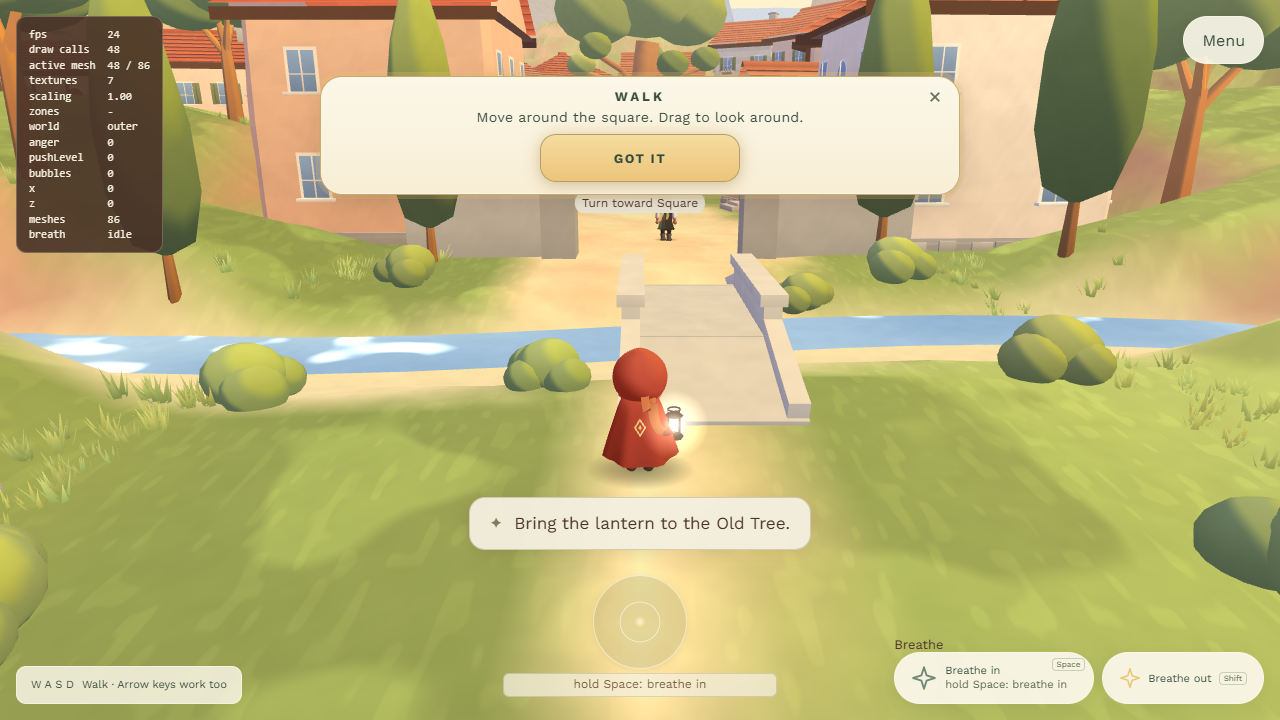
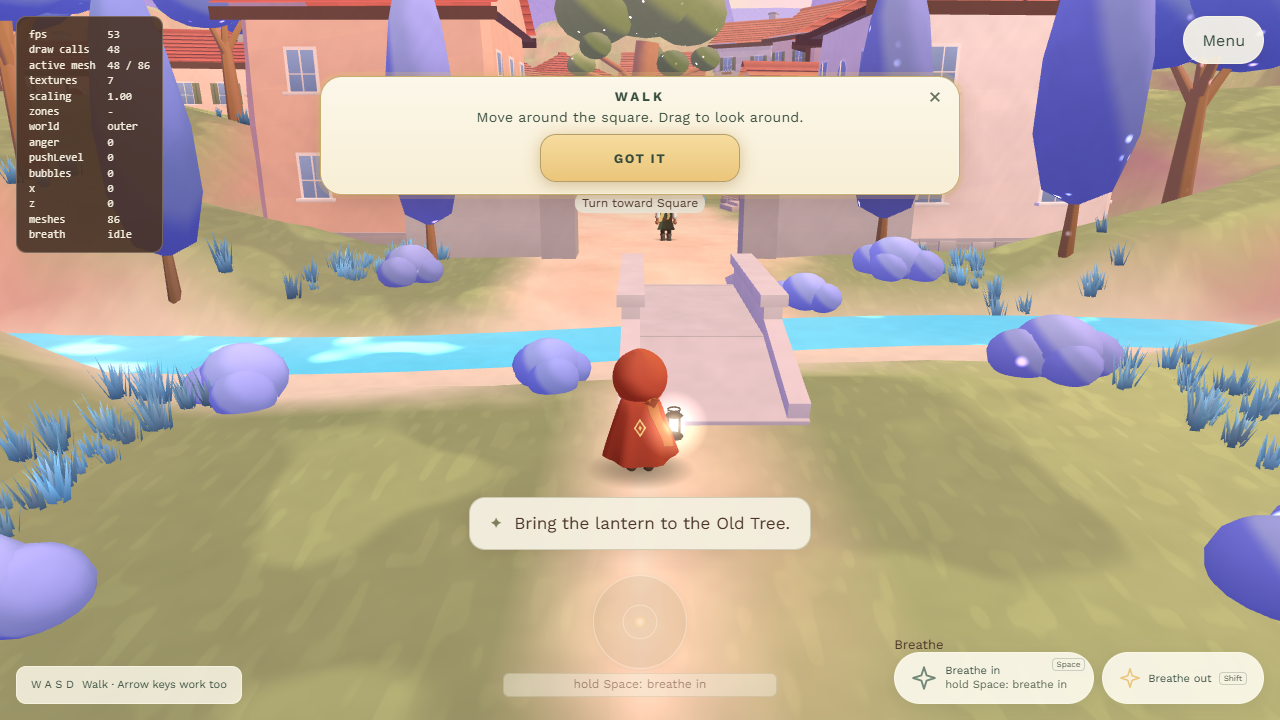
´claude screenshots

diff --git a/src/inner/ValleyProps.ts b/src/inner/ValleyProps.ts
@@ -78,6 +78,7 @@ export class ValleyProps {
   readonly meshes: Mesh[] = [];
   private readonly rnd = new Random('light-within-valley-2');
   private readonly trees: { x: number; z: number }[] = [];
+  private readonly rockSpots: { x: number; z: number; r: number }[] = [];
 
   constructor(
     scene: Scene,
@@ -89,7 +90,7 @@ export class ValleyProps {
       c.grassTufts = Math.round(c.grassTufts * TUNING.performance.mobileGrassShare);
       c.flowers = Math.round(c.flowers * TUNING.performance.mobileFlowerShare);
     }
-    this.add(roundTree(scene), this.placeRoundTrees(c.roundTrees), materials.plants);
+    this.add(roundTree(scene, true), this.placeRoundTrees(c.roundTrees), materials.plants);
     this.add(cypress(scene), this.placeCypresses(c.cypresses), materials.plants);
     this.add(bush(scene), this.placeBushes(c.bushes), materials.plants);
     this.add(rock(scene, 7), this.placeRocks(c.rocks), materials.solid);
@@ -245,6 +246,7 @@ export class ValleyProps {
         tiltZ: this.rnd.jitter(0.12),
         tint: this.tint(0.06, 0.05),
       });
+      this.rockSpots.push({ x, z, r: scale });
       if (scale > 0.55) this.colliders.push({ x, z, radius: scale * 0.8 });
       this.shadows.push({ x, z, radius: scale * 1.3, strength: 0.28 });
     }
@@ -258,17 +260,19 @@ export class ValleyProps {
       const p = this.find((x, z) => {
         // Clumps first (cheap): dense in some places, bare in others.
         if (noise2(x * 0.18 + 7, z * 0.18) < 0.32 + this.rnd.next() * 0.3) return false;
-        if (t.rimDistance(x, z) > 1.05 || t.pathDistance(x, z) < LAYOUT.pathWidth * 0.6) return false;
+        if (t.rimDistance(x, z) > 1.05 || t.pathDistance(x, z) < LAYOUT.pathWidth * 1.15) return false;
         if (t.riverDistance(x, z) < LAYOUT.river.halfWidth + 0.6 || t.isChasm(x, z)) return false;
         return t.slope(x, z) < 0.6;
       }, 20);
       if (!p) continue;
       const [x, z] = p;
+      const edge = Math.min(1, (t.pathDistance(x, z) - LAYOUT.pathWidth * 1.15) / 1.5);
+      if (edge < 1 && this.rnd.next() > 0.35 + edge * 0.65) continue;
       out.push({
         x,
         y: t.height(x, z) - 0.03,
         z,
-        scale: this.rnd.range(0.7, 1.3),
+        scale: this.rnd.range(0.7, 1.3) * (0.7 + 0.3 * edge),
         rotY: this.rnd.range(0, 6.28),
         tint: this.tint(0.1, 0.05),
       });
@@ -303,7 +307,47 @@ export class ValleyProps {
         });
       }
     }
+    this.placeBigCrystals(out, TUNING.inner.counts.bigCrystals * (this.touchLite() ? 0.6 : 1));
     return out;
+  }
+
+  private touchLite(): boolean {
+    return isTouchDevice() || new URLSearchParams(location.search).has('touch');
+  }
+
+  /** Bigger crystal clusters around rocks, the tree roots and the camera path. */
+  private placeBigCrystals(out: Placement[], count: number): void {
+    const t = this.terrain;
+    const tr = LAYOUT.tree;
+    const add = (x: number, z: number, scale: number): void => {
+      if (t.riverDistance(x, z) < LAYOUT.river.halfWidth + 0.5 || t.isChasm(x, z) || t.slope(x, z) > 0.7) return;
+      out.push({
+        x,
+        y: t.height(x, z) - 0.03,
+        z,
+        scale,
+        rotY: this.rnd.range(0, 6.28),
+        tiltX: this.rnd.jitter(0.15),
+        tiltZ: this.rnd.jitter(0.15),
+        tint: this.tint(0.1, 0.05),
+      });
+    };
+    for (let i = 0; i < count; i++) {
+      const k = i % 3;
+      if (k === 0 && this.rockSpots.length) {
+        const r = this.rockSpots[Math.floor(this.rnd.next() * this.rockSpots.length)]!;
+        const a = this.rnd.range(0, 6.28);
+        const d = r.r * 0.8 + this.rnd.range(0.2, 0.7);
+        add(r.x + Math.cos(a) * d, r.z + Math.sin(a) * d, this.rnd.range(1.0, 1.9));
+      } else if (k === 1) {
+        const a = this.rnd.range(0, 6.28);
+        const d = this.rnd.range(3, 10);
+        add(tr.x + Math.cos(a) * d, tr.z + Math.sin(a) * d, this.rnd.range(1.1, 2.3));
+      } else {
+        const p = this.find((x, z) => t.pathDistance(x, z) > LAYOUT.pathWidth + 0.8 && t.pathDistance(x, z) < LAYOUT.pathWidth + 5 && t.rimDistance(x, z) < 0.95, 30);
+        if (p) add(p[0], p[1], this.rnd.range(0.9, 2.0));
+      }
+    }
   }
 }
 
@@ -312,7 +356,7 @@ export class ValleyProps {
  * and a crown of soft clumps. Each clump is shaded on its own, so the crown
  * reads as layered cut-paper clouds. About 5 m tall.
  */
-export function roundTree(scene: Scene): Mesh {
+export function roundTree(scene: Scene, puffy = false): Mesh {
   const wood: Mesh[] = [];
   const trunk = MeshBuilder.CreateCylinder('tree.trunk', { height: 2.4, diameterTop: 0.3, diameterBottom: 0.5, tessellation: 7 }, scene);
   trunk.position.y = 1.2;
@@ -351,11 +395,60 @@ export function roundTree(scene: Scene): Mesh {
   add(new Vector3(0, 4.0, 0), 1.45);
   add(new Vector3(0.6, 4.55, 0.3), 1.05);
   add(new Vector3(-0.8, 3.5, -0.6), 1.1);
+  if (puffy) {
+    // Inner world: many extra overlapping blobs, a big cloud-like crown.
+    const rnd = new Random('puffy-crown');
+    const centres = [...tips.map((t) => t.add(new Vector3(0, 0.35, 0))), new Vector3(0, 4.0, 0), new Vector3(0.6, 4.55, 0.3), new Vector3(-0.8, 3.5, -0.6)];
+    for (let i = 0; i < 26; i++) {
+      const c = centres[i % centres.length]!;
+      const p = c.add(new Vector3(rnd.jitter(1.2), rnd.jitter(0.7) + 0.35, rnd.jitter(1.2)));
+      add(p, rnd.range(0.65, 1.15));
+    }
+  }
   const crown = Mesh.MergeMeshes(clumps, true)!;
   paintGradient(crown, SHADES.innerFoliage, SHADES.innerFoliageLit, 2.2);
-  const tree = Mesh.MergeMeshes([trunkMesh, crown], true)!;
+  const parts = [trunkMesh, crown];
+  if (puffy) {
+    const rnd = new Random('puffy-sparks');
+    for (let i = 0; i < 16; i++) {
+      const sp = MeshBuilder.CreateSphere('tree.spark', { diameter: rnd.range(0.12, 0.2), segments: 3 }, scene);
+      sp.position.set(rnd.jitter(2.2), rnd.range(3.0, 5.4), rnd.jitter(2.2));
+      sp.bakeCurrentTransformIntoVertices();
+      paintFlat(sp, SHADES.innerSpark, 0.3);
+      parts.push(sp);
+    }
+  }
+  const tree = Mesh.MergeMeshes(parts, true)!;
   tree.name = 'valley.roundTree';
   return tree;
+}
+
+/** Inner world: a unit cloud of overlapping blobs with gold sparks, instanced around the giant tree's crown. */
+export function puffCloud(scene: Scene): Mesh {
+  const rnd = new Random('puff-cloud');
+  const parts: Mesh[] = [];
+  for (let i = 0; i < 9; i++) {
+    const p = new Vector3(rnd.jitter(0.9), rnd.range(-0.1, 0.5), rnd.jitter(0.9));
+    const c = MeshBuilder.CreateSphere('puff.blob', { diameter: rnd.range(0.9, 1.4), segments: 6 }, scene);
+    c.scaling.y = 0.75;
+    c.position.copyFrom(p);
+    c.bakeCurrentTransformIntoVertices();
+    roundNormals(c, p, 0.85);
+    parts.push(c);
+  }
+  const cloud = Mesh.MergeMeshes(parts, true)!;
+  paintGradient(cloud, SHADES.innerFoliage, SHADES.innerFoliageLit);
+  const sparks: Mesh[] = [cloud];
+  for (let i = 0; i < 5; i++) {
+    const sp = MeshBuilder.CreateSphere('puff.spark', { diameter: rnd.range(0.07, 0.12), segments: 3 }, scene);
+    sp.position.set(rnd.jitter(0.8), rnd.range(0.1, 0.6), rnd.jitter(0.8));
+    sp.bakeCurrentTransformIntoVertices();
+    paintFlat(sp, SHADES.innerSpark, 0);
+    sparks.push(sp);
+  }
+  const m = Mesh.MergeMeshes(sparks, true)!;
+  m.name = 'valley.puffCloud';
+  return m;
 }
 
 /** Cypress: a tall soft flame of dark green. About 5.8 m tall. */
@@ -436,20 +529,22 @@ export function grassTuft(scene: Scene, rnd: Random): Mesh {
   const normals: number[] = [];
   const base = rgb(SHADES.innerGrass);
   const tip = rgb(SHADES.innerGrassTip);
-  const blades = 8;
+  const blades = 13;
   for (let b = 0; b < blades; b++) {
     const a = (b / blades) * Math.PI * 2 + rnd.jitter(0.4);
-    const r = rnd.range(0, 0.1);
+    const r = rnd.range(0, 0.14);
     const x = Math.cos(a) * r;
     const z = Math.sin(a) * r;
-    const h = rnd.range(0.22, 0.42);
+    const h = rnd.range(0.3, 0.62);
     const lean = rnd.range(0.08, 0.18);
-    const w = 0.045;
+    const w = 0.05;
     const sx = -Math.sin(a) * w;
     const sz = Math.cos(a) * w;
     const n = positions.length / 3;
     positions.push(x - sx, 0, z - sz, x + sx, 0, z + sz, x + Math.cos(a) * lean, h, z + Math.sin(a) * lean);
-    colors.push(...base, 0, ...base, 0, ...tip, 1);
+    const vary = 0.75 + rnd.next() * 0.5;
+    const t2: Rgb = [Math.min(1, tip[0] * vary), Math.min(1, tip[1] * (0.9 + vary * 0.1)), Math.min(1, tip[2])];
+    colors.push(...base, 0, ...base, 0, ...t2, 1);
     normals.push(0, 1, 0, 0, 1, 0, 0, 1, 0);
     indices.push(n, n + 1, n + 2);
   }

diff --git a/src/inner/InnerValley.ts b/src/inner/InnerValley.ts
@@ -19,7 +19,8 @@ import { WORLD_UNIFORMS, createPaperMaterial } from '../shaders/paperShader';
 import type { World, WorldId } from '../game/World';
 import { VALLEY_UNIFORMS, createValleyMaterial } from './valleyShader';
 import { ValleyTerrain } from './ValleyTerrain';
-import { ValleyProps, type Collider } from './ValleyProps';
+import { ValleyProps, placeThin, puffCloud, type Collider, type Placement } from './ValleyProps';
+import { Random } from '../core/Random';
 import { InnerGlow } from './InnerGlow';
 import { ValleySky, buildFarMountains } from './ValleySky';
 import { buildRiver, buildStream, buildWaterfall } from './ValleyWater';
@@ -70,6 +71,7 @@ export class InnerValley implements World, WalkGround {
   private readonly breath = new BreathSystem();
   private readonly breathVisuals: BreathVisuals;
   private readonly touch: boolean;
+  private plantsMat!: ShaderMaterial;
   private readonly root: HTMLDivElement;
   private active = false;
   private readonly diamond = new Vector3();
@@ -112,7 +114,7 @@ export class InnerValley implements World, WalkGround {
 
     const solid = createValleyMaterial('inner.solid', scene);
     const ground = createValleyMaterial('inner.ground', scene, { ground: true });
-    const plants = createValleyMaterial('inner.plants', scene, { wind: true, painted: true });
+    const plants = (this.plantsMat = createValleyMaterial('inner.plants', scene, { wind: true, painted: true }));
     const grass = createValleyMaterial('inner.grass', scene, { wind: true, tips: true, backFaceCulling: false });
     const far = createValleyMaterial('inner.far', scene, { unlit: true, fog: 0, backFaceCulling: false });
     const water = createValleyMaterial('inner.water', scene, { water: true, backFaceCulling: false });
@@ -182,6 +184,30 @@ export class InnerValley implements World, WalkGround {
     return false;
   }
 
+  /** Extra soft cloud blobs around the giant tree's crown (inner world only). */
+  private buildCrownPuffs(base: Vector3, scale: number): void {
+    const rnd = new Random('inner-crown-puffs');
+    const items: Placement[] = [];
+    const n = this.touch ? TUNING.inner.counts.crownPuffsTouch : TUNING.inner.counts.crownPuffs;
+    for (let i = 0; i < n; i++) {
+      const c = OLD_TREE.crown[i % OLD_TREE.crown.length]!;
+      const a = rnd.range(0, 6.28);
+      const d = c[3] * scale * rnd.range(0.4, 1.1);
+      const lit = rnd.next();
+      items.push({
+        x: base.x + c[0] * scale + Math.cos(a) * d,
+        y: base.y + c[1] * scale + rnd.jitter(c[3] * scale * 0.7) + c[3] * scale * 0.25,
+        z: base.z + c[2] * scale + Math.sin(a) * d,
+        scale: rnd.range(2.4, 4.4),
+        stretch: [1.2, 0.85, 1.2],
+        rotY: rnd.range(0, 6.28),
+        tint: [0.9 + lit * 0.25, 0.92 + lit * 0.2, 1.05 + lit * 0.15],
+      });
+    }
+    const mesh = puffCloud(this.scene);
+    placeThin(mesh, items, this.plantsMat);
+  }
+
   /** Soft column of light where the player arrives (LAYOUT.entrance). */
   private buildEntrance(): void {
     const e = TUNING.inner.entrance;
@@ -231,6 +257,7 @@ export class InnerValley implements World, WalkGround {
       rootHealth: 1,
     });
     colliders.push({ x: at.x, z: at.z, radius: T.trunkCollider * scale });
+    this.buildCrownPuffs(base, scale);
 
     // Walkable roots: the ground rises over each root.
     for (let i = 0; i < OLD_TREE.roots.length; i++) {

diff --git a/src/inner/valleyShader.ts b/src/inner/valleyShader.ts
@@ -48,6 +48,7 @@ varying vec3 vWorld;
 varying float vFog;
 varying float vMask;
 varying float vPhase;
+varying float vBig;
 void main(void) {
 #include<instancesVertex>
   vec4 wp = finalWorld * vec4(position, 1.0);
@@ -59,6 +60,16 @@ void main(void) {
   float sway = 0.0;
 #endif
   vMask = sway;
+  vBig = 1.0;
+#if defined(WIND) && defined(PAINTED)
+  // Small props shrink away as a whole when the camera comes close (no hollow shells).
+  if (length(finalWorld[0].xyz) < 8.0) {
+    vBig = 0.0;
+    vec3 ctr = finalWorld[3].xyz;
+    float k = smoothstep(4.5, 10.0, distance(ctr, uCamPos));
+    wp.xyz = ctr + (wp.xyz - ctr) * k;
+  }
+#endif
   vPhase = finalWorld[3].x * 0.9 + finalWorld[3].z * 1.3;
 #ifdef INSTANCESCOLOR
   vColor *= instanceColor.rgb;
@@ -92,6 +103,7 @@ varying vec3 vWorld;
 varying float vFog;
 varying float vMask;
 varying float vPhase;
+varying float vBig;
 
 float hash(vec2 p) { return fract(sin(dot(p, vec2(127.1, 311.7))) * 43758.5453); }
 float noise(vec2 p) {
@@ -105,7 +117,7 @@ void main(void) {
   // Plants right in front of the camera fade out (dithered), so they never block the view.
   float dc = distance(vWorld, uCamPos);
 #ifdef PAINTED
-  if (dc < 3.2) discard;
+  if (vBig > 0.5 && dc < 3.2) discard;
 #else
   if (dc < 2.6 && hash(gl_FragCoord.xy) > smoothstep(2.1, 2.6, dc)) discard;
 #endif

diff --git a/src/config/palette.ts b/src/config/palette.ts
@@ -22,11 +22,12 @@ export const SHADES = {
   /** Inner world: lavender haze (distance fog and clear colour). */
   innerHaze: '#D6B4EC',
   /** Inner world: blue-violet tree crowns and bushes (shade side / lit side). */
+  innerSpark: '#FFD878',
   innerFoliage: '#6670C0',
   innerFoliageLit: '#B0BCF4',
   /** Inner world: grass, blue-green tinted violet (base / tip). */
-  innerGrass: '#1E4F68',
-  innerGrassTip: '#86D0DC',
+  innerGrass: '#123E58',
+  innerGrassTip: '#6CB4D0',
   /** Inner world: glowing crystal flowers, pale violet and pale blue. */
   innerCrystal: '#A868FF',
   innerCrystalBlue: '#38C4F0',

diff --git a/src/config/tuning.ts b/src/config/tuning.ts
@@ -451,8 +451,11 @@ export const TUNING = {
       cypresses: 14,
       bushes: 18,
       rocks: 30,
-      grassTufts: 1600,
-      flowers: 120,
+      grassTufts: 5500,
+      flowers: 600,
+      bigCrystals: 120,
+      crownPuffs: 60,
+      crownPuffsTouch: 34,
     },
     /** Floating light motes (one pooled particle system, follows the player). */
     motes: { count: 150, radius: 12, height: 4.5, size: 0.5, rise: 0.25 },
